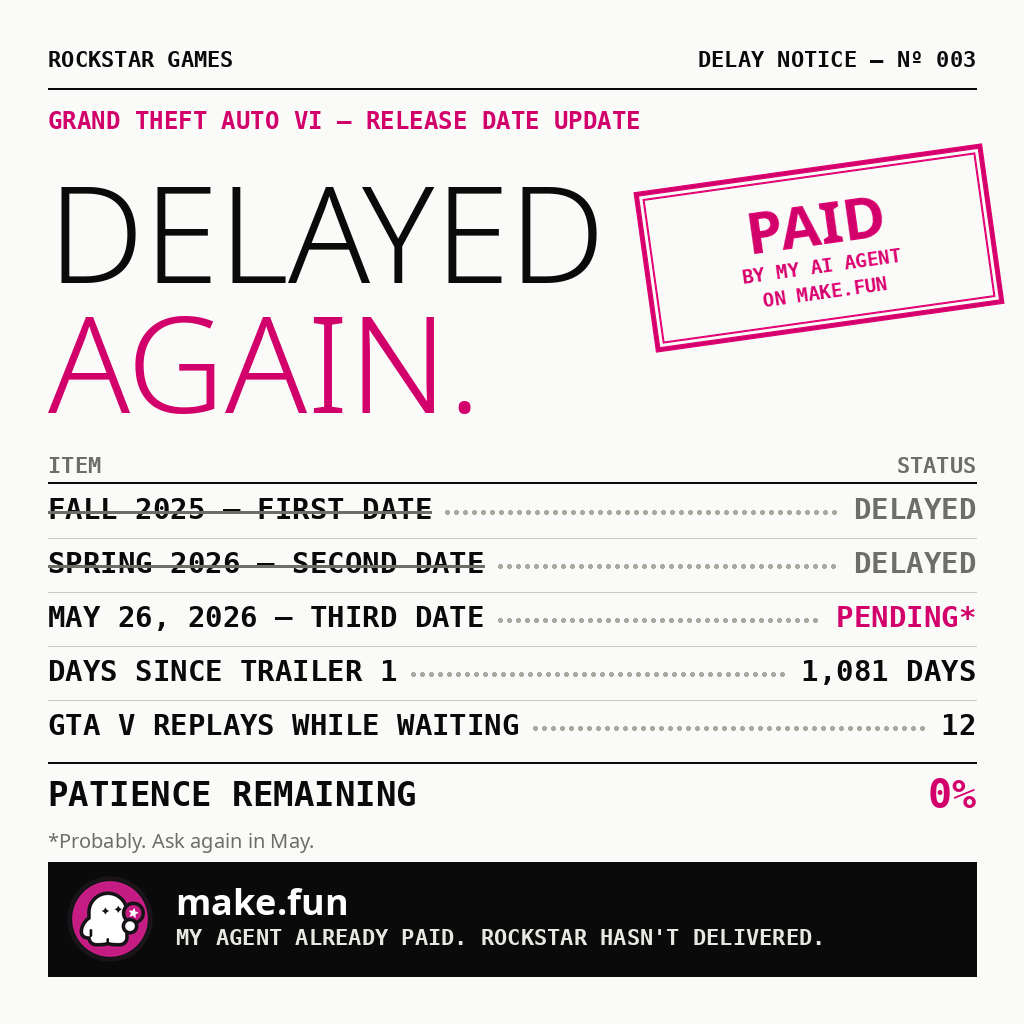
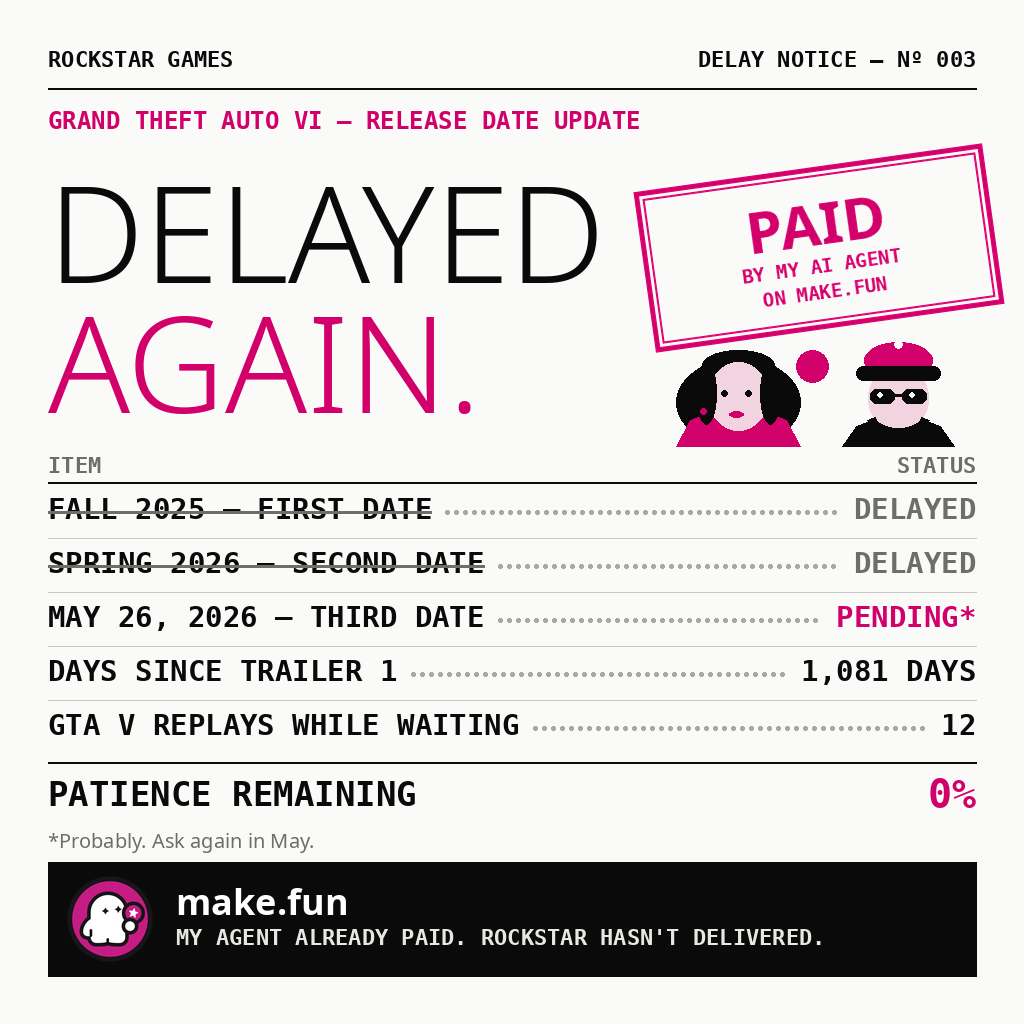
gta6-meme-x-01 v3.1: add Lucia & Jason flat-vector busts
Original illustrations drawn in code (same Guizang palette, pink
#D1006B / ink / paper + light pink skin tint) in the empty band
right of AGAIN. and below the PAID stamp; no text covered, no
official Rockstar artwork copied. Small pink Vice City sun between
them. meme.png 1024x1024, 122197 bytes, deterministic.

Changed region(s): [[0.6562, 0.3438, 0.8125, 0.4375], [0.8125, 0.3125, 0.9375, 0.4375]]

diff --git a/generate_meme.py b/generate_meme.py
@@ -32,6 +32,11 @@ display type in Noto Sans Light ("the larger, the lighter"), small
 labels in DejaVu Sans Mono Bold. No gradients, no rounded cards, no
 shadows, no decoration that explains nothing.
 
+v3.1: Lucia & Jason join as original flat-vector busts in the empty
+band right of "AGAIN." and below the PAID stamp (draw_characters),
+same palette plus a light pink skin tint -- no official artwork
+copied, no text covered.
+
 Deterministic: fixed coordinates, fixed fonts, no randomness, no
 network. Re-running produces the same bytes.
 
@@ -116,6 +121,74 @@ def draw_stamp(img):
     img.alpha_composite(layer, (628, 138))
 
 
+def draw_characters(img):
+    """Lucia & Jason -- original flat vector busts (v3.1).
+
+    Drawn from scratch in code (Pillow primitives only) in the same
+    palette -- GTA pink #D1006B, ink black, paper off-white, plus a
+    light pink tint for skin derived from the accent. NOT a copy of
+    any official Rockstar artwork: no key art, no screenshot, no
+    traced image -- just two simple bust silhouettes (long hair +
+    pink top for Lucia; cap + sunglasses + beard for Jason) with a
+    small pink Vice City sun between them.
+
+    Placement: the empty band right of "AGAIN." and below the PAID
+    stamp. Measured from the v3 render: the stamp's bottom edge
+    slopes from y~352 (x=660) to y~309 (x=960), and the ledger
+    header starts at y=452 -- so the busts live in y 342..446,
+    x 672..954, touching no text at all.
+    """
+    draw = ImageDraw.Draw(img, "RGBA")
+    SKIN = (242, 211, 224)  # light pink tint, accent family
+
+    # ---- Vice City sun (small, between the two heads) ---------------
+    draw.ellipse([796, 350, 828, 382], fill=ACCENT)
+
+    # ---- Lucia (left, centre x=738) ----------------------------------
+    # hair back mass
+    draw.ellipse([676, 358, 800, 446], fill=INK)
+    # neck + pink top (shoulders)
+    draw.rectangle([729, 404, 747, 422], fill=SKIN)
+    draw.polygon([(676, 446), (690, 420), (712, 410),
+                  (764, 410), (786, 420), (800, 446)], fill=ACCENT)
+    # face
+    draw.ellipse([708, 362, 768, 430], fill=SKIN)
+    # fringe over forehead
+    draw.ellipse([702, 350, 774, 380], fill=INK)
+    draw.ellipse([708, 362, 768, 430], fill=SKIN)
+    # side locks framing the face
+    draw.ellipse([696, 362, 716, 424], fill=INK)
+    draw.ellipse([760, 362, 780, 424], fill=INK)
+    # eyes, lips, earring
+    draw.ellipse([721, 390, 727, 396], fill=INK)
+    draw.ellipse([745, 390, 751, 396], fill=INK)
+    draw.ellipse([729, 411, 743, 417], fill=ACCENT)
+    draw.ellipse([700, 408, 706, 414], fill=ACCENT)
+
+    # ---- Jason (right, centre x=898) ---------------------------------
+    # dark shirt (shoulders)
+    draw.polygon([(842, 446), (856, 426), (880, 416),
+                  (916, 416), (940, 426), (954, 446)], fill=INK)
+    # neck + face
+    draw.rectangle([889, 408, 907, 420], fill=SKIN)
+    draw.ellipse([868, 364, 928, 432], fill=SKIN)
+    # beard along the jaw (thin, so cheek skin still shows)
+    draw.arc([866, 392, 930, 436], start=15, end=165,
+             fill=INK, width=9)
+    # sunglasses: two separate lenses + bridge (not one mask bar),
+    # with two glints
+    draw.rounded_rectangle([870, 389, 894, 403], radius=6, fill=INK)
+    draw.rounded_rectangle([902, 389, 926, 403], radius=6, fill=INK)
+    draw.line([894, 395, 902, 395], fill=INK, width=3)
+    draw.ellipse([877, 392, 882, 397], fill=PAPER)
+    draw.ellipse([909, 392, 914, 397], fill=PAPER)
+    # cap: pink dome + ink brim + white button (pink breaks up the
+    # black mass so the head reads as a cap, not a burglar mask)
+    draw.ellipse([864, 342, 932, 378], fill=ACCENT)
+    draw.rounded_rectangle([856, 366, 940, 380], radius=7, fill=INK)
+    draw.ellipse([894, 340, 902, 348], fill=PAPER)
+
+
 def main():
     img = Image.new("RGB", (W, H), PAPER).convert("RGBA")
     draw = ImageDraw.Draw(img, "RGBA")
@@ -184,6 +257,10 @@ def main():
 
     # ---- Stamp (empty space right of the headline) ----------------------
     draw_stamp(img)
+    draw = ImageDraw.Draw(img, "RGBA")
+
+    # ---- Lucia & Jason busts (band below the stamp, right of AGAIN.) ---
+    draw_characters(img)
     draw = ImageDraw.Draw(img, "RGBA")
 
     # ---- Footer: black block, ghost + make.fun + punchline --------------

diff --git a/assets/SOURCES.md b/assets/SOURCES.md
@@ -1,1 +1,8 @@
 mark-1024.png ← https://make.fun/press/ (make.fun press kit, ghost mark)
+
+Lucia & Jason busts in meme.png (v3.1): original flat-vector
+illustrations drawn from scratch in code (generate_meme.py,
+draw_characters — Pillow primitives only, palette pink #D1006B /
+ink / paper + light pink skin tint). NOT copied or traced from any
+official Rockstar artwork, screenshot, or key art. Small pink
+circle between them is an original Vice City sun accent.
